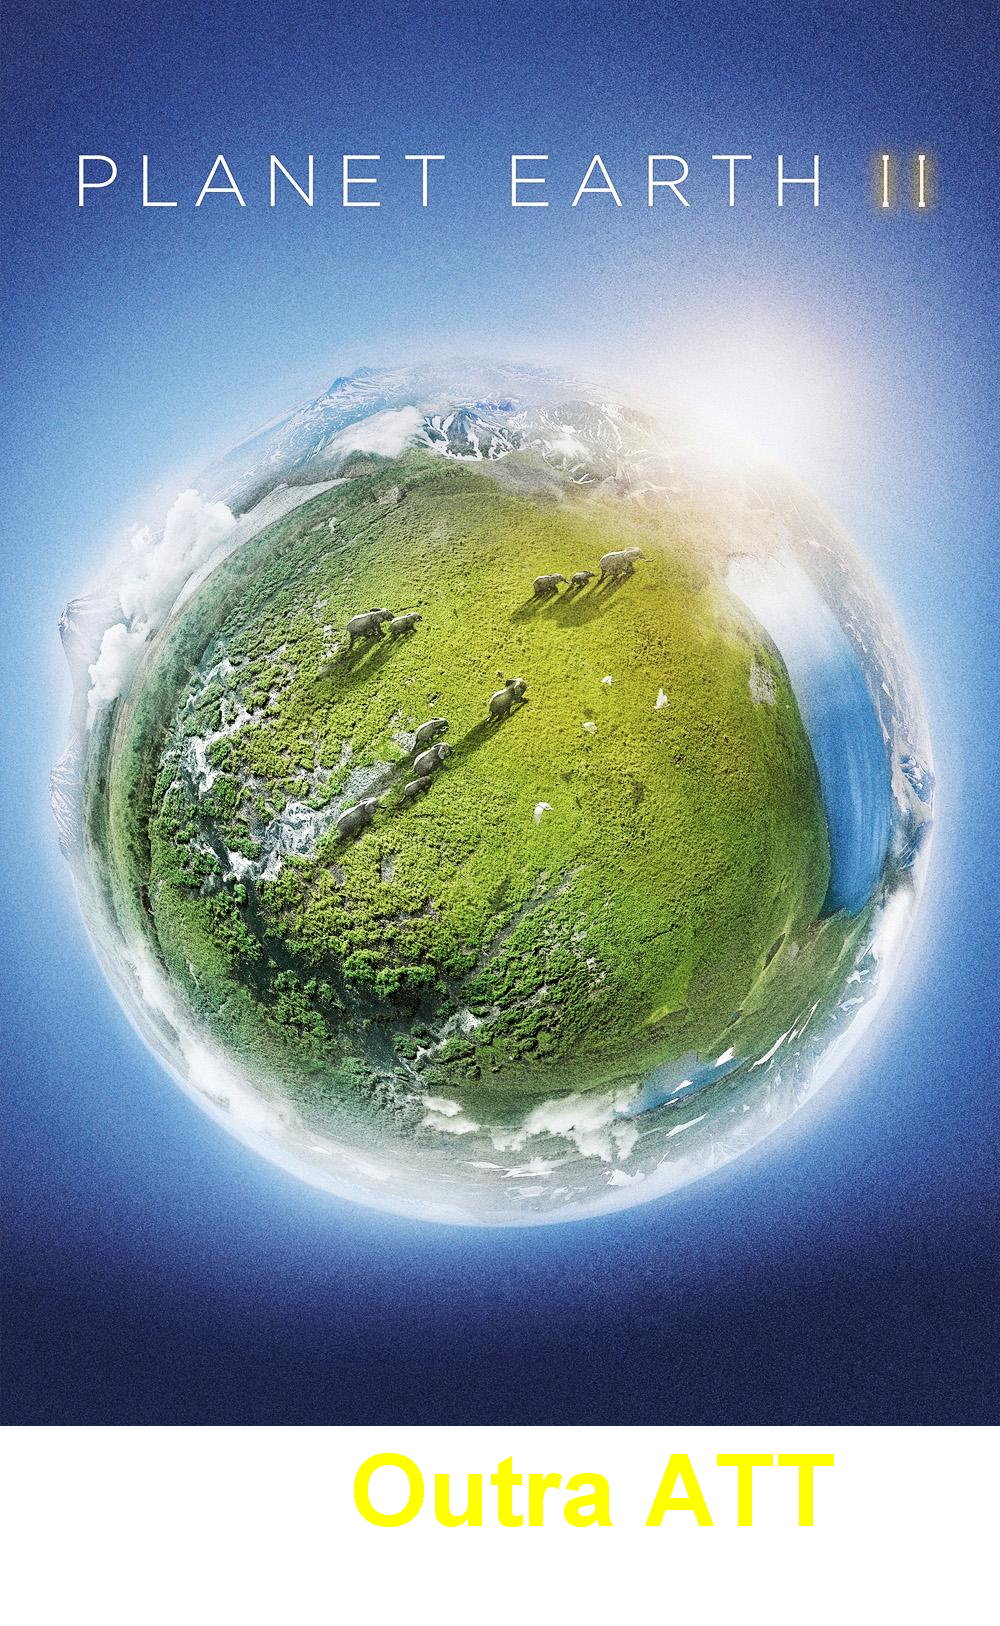
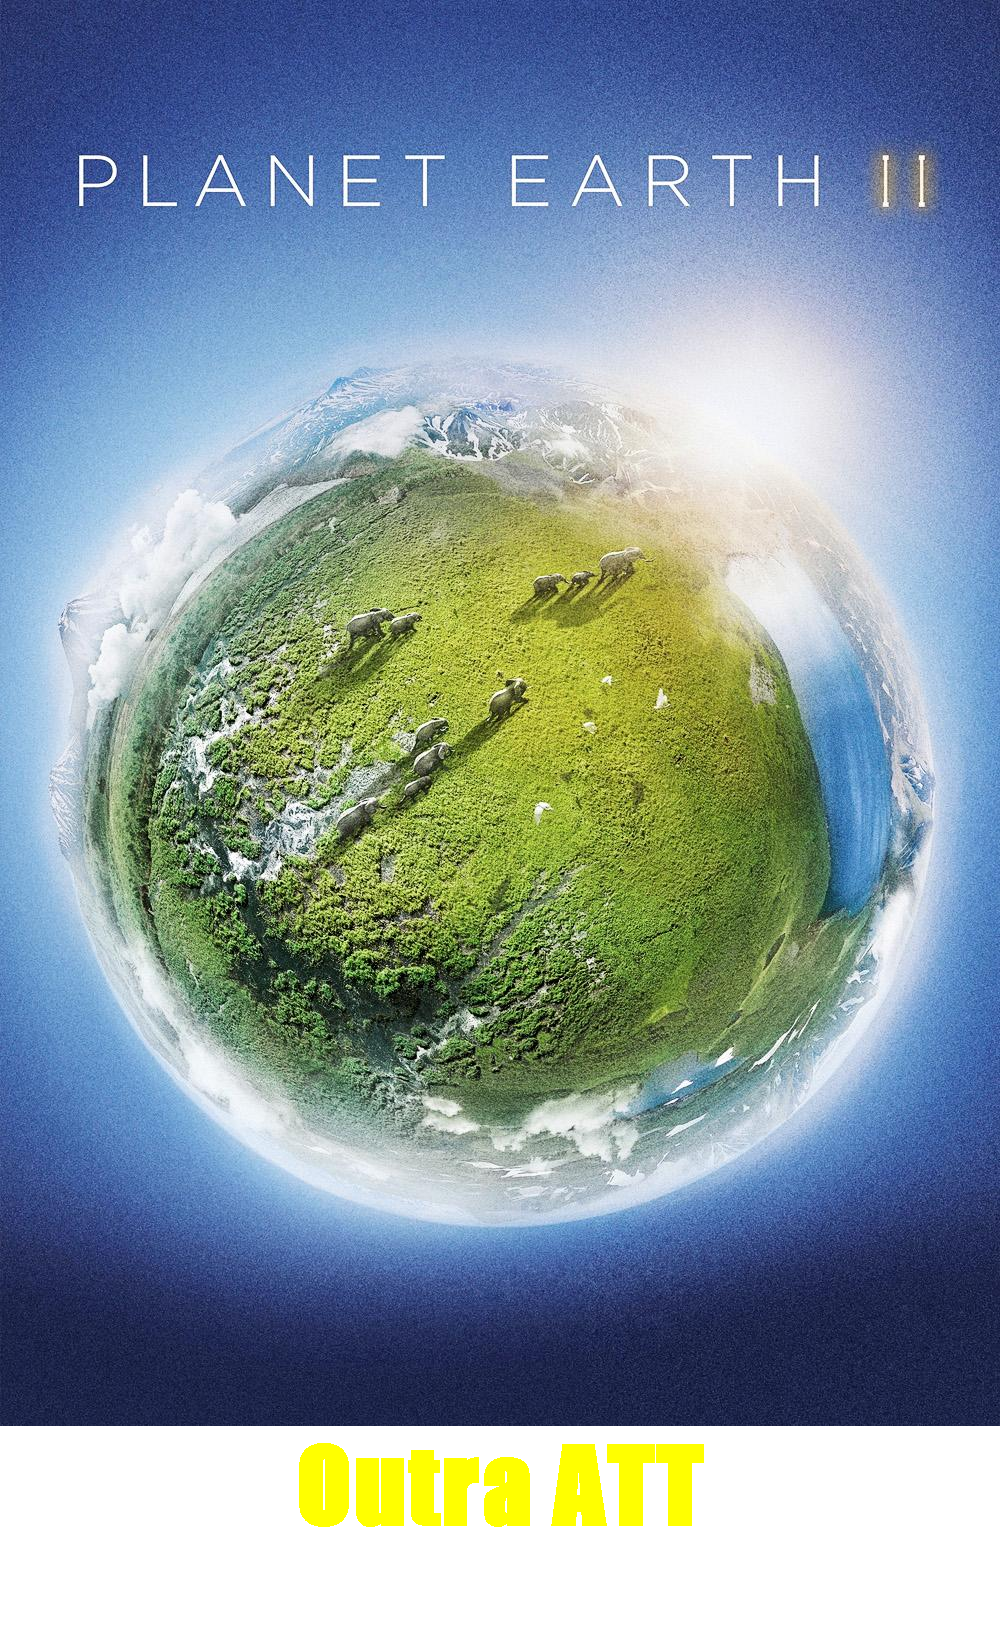
mensagem da figurinha se relaciona com a nota da obra

Changed region(s): [[0.279, 0.861, 0.837, 0.9533]]

diff --git a/src/BuscadorAPI.java b/src/BuscadorAPI.java
@@ -13,13 +13,32 @@ public class BuscadorAPI {
     System.out.println("De qual API você deseja importar os dados? ");
     System.out.println("1- Séries | 2- Filmes");
     int opcao = cc.nextInt();
+
     String url;
     if(opcao == 1){
-        url = "https://raw.githubusercontent.com/alura-cursos/imersao-java-2-api/main/TopTVs.json";
+        System.out.println("Você deseja receber a API de Séries mais Populares ou de Melhores Séries?");
+        System.out.println("1- Melhores | 2- Mais Populares");
+        int opcao2 = cc.nextInt();
+        if(opcao2 == 1){
+            url = "https://raw.githubusercontent.com/alura-cursos/imersao-java-2-api/main/TopTVs.json";
+        } else if(opcao2 == 2){
+            url = "https://raw.githubusercontent.com/alura-cursos/imersao-java-2-api/main/MostPopularTVs.json";
+        } else{
+            throw new RuntimeException("Opção Indisponivel");
+        };
     } else if(opcao == 2){
-        url = "https://raw.githubusercontent.com/alura-cursos/imersao-java-2-api/main/TopMovies.json";
-    } else{
-        throw new RuntimeException("Opção Indisponivel");
+        System.out.println("Você deseja receber a API de Séries mais Populares ou de Melhores Séries?");
+        System.out.println("1- Melhores | 2- Mais Populares");
+        int opcao2 = cc.nextInt();
+        if(opcao2 == 1){
+            url = "https://raw.githubusercontent.com/alura-cursos/imersao-java-2-api/main/TopMovies.json";
+        } else if(opcao2 == 2){
+            url = "https://raw.githubusercontent.com/alura-cursos/imersao-java-2-api/main/MostPopularMovies.json";
+        ;} else{
+            throw new RuntimeException("Opção Indisponivel");
+        }
+    }  else{
+            throw new RuntimeException("Opção Indisponivel");
     }
 
         URI endereco = URI.create(url);

diff --git a/src/App.java b/src/App.java
@@ -34,7 +34,7 @@ public class App {
             // METODO Imprirmir Estrelas
             double notaEmDouble = Double.parseDouble(filme.get("imDbRating"));
             imprimirEstrelas(notaEmDouble);
-            
+
             // OPÇÕES de Vizualização
             if(opcaoVizualicao == 1){
                 //OBJETO e METODO de ASCII
@@ -48,7 +48,13 @@ public class App {
             } else if (opcaoVizualicao == 3){
                 //OBJETO e METODO de Stickers
                 GeradorStickers geradorStickers = new GeradorStickers();
-                geradorStickers.criar(filme.get("image"), filme.get("title"), "Outra ATT");
+                if(notaEmDouble >= 8.5){
+                    geradorStickers.criar(filme.get("image"), filme.get("title"), "MASTERPIECE");
+                } else if(notaEmDouble <= 8.5 && notaEmDouble >= 6.5){
+                    geradorStickers.criar(filme.get("image"), filme.get("title"), "BOM CONTEUDO");
+                } else{
+                    geradorStickers.criar(filme.get("image"), filme.get("title"), "UMA MERDA");
+                }
             } else{
                 throw new RuntimeException("Opção Inexistente");
             }

diff --git a/src/GeradorStickers.java b/src/GeradorStickers.java
@@ -1,6 +1,8 @@
 import java.awt.Color;
 import java.awt.Font;
+import java.awt.FontMetrics;
 import java.awt.Graphics2D;
+import java.awt.geom.Rectangle2D;
 import java.awt.image.BufferedImage;
 import java.io.File;
 import java.net.URL;
@@ -32,12 +34,18 @@ public class GeradorStickers {
     
     // Escrever frase na imagem
     // Configurando fonta
-    var fonte = new Font(Font.SANS_SERIF, Font.BOLD, 100);
+    var fonte = new Font("impact", Font.BOLD, 100);
     graphics.setColor(Color.YELLOW);
     graphics.setFont(fonte);
 
     // Juntando imagem e texto
-    graphics.drawString(fraseAdicionada, (imagemOriginal.getWidth()) / 2 - 150, novaAltura - 100);
+    String texto = fraseAdicionada;
+    FontMetrics fontMetrics = graphics.getFontMetrics();
+    Rectangle2D retangulo = fontMetrics.getStringBounds(texto, graphics);
+    int larguraTexto = (int) retangulo.getWidth();
+    int posicaoTexto = (largaura - larguraTexto) / 2;
+
+    graphics.drawString(texto, posicaoTexto, novaAltura - 100);
 
     // Escrever em arquivo
     ImageIO.write(novaImagem, "png", new File("saida/" + nomeFilme + ".png"));
